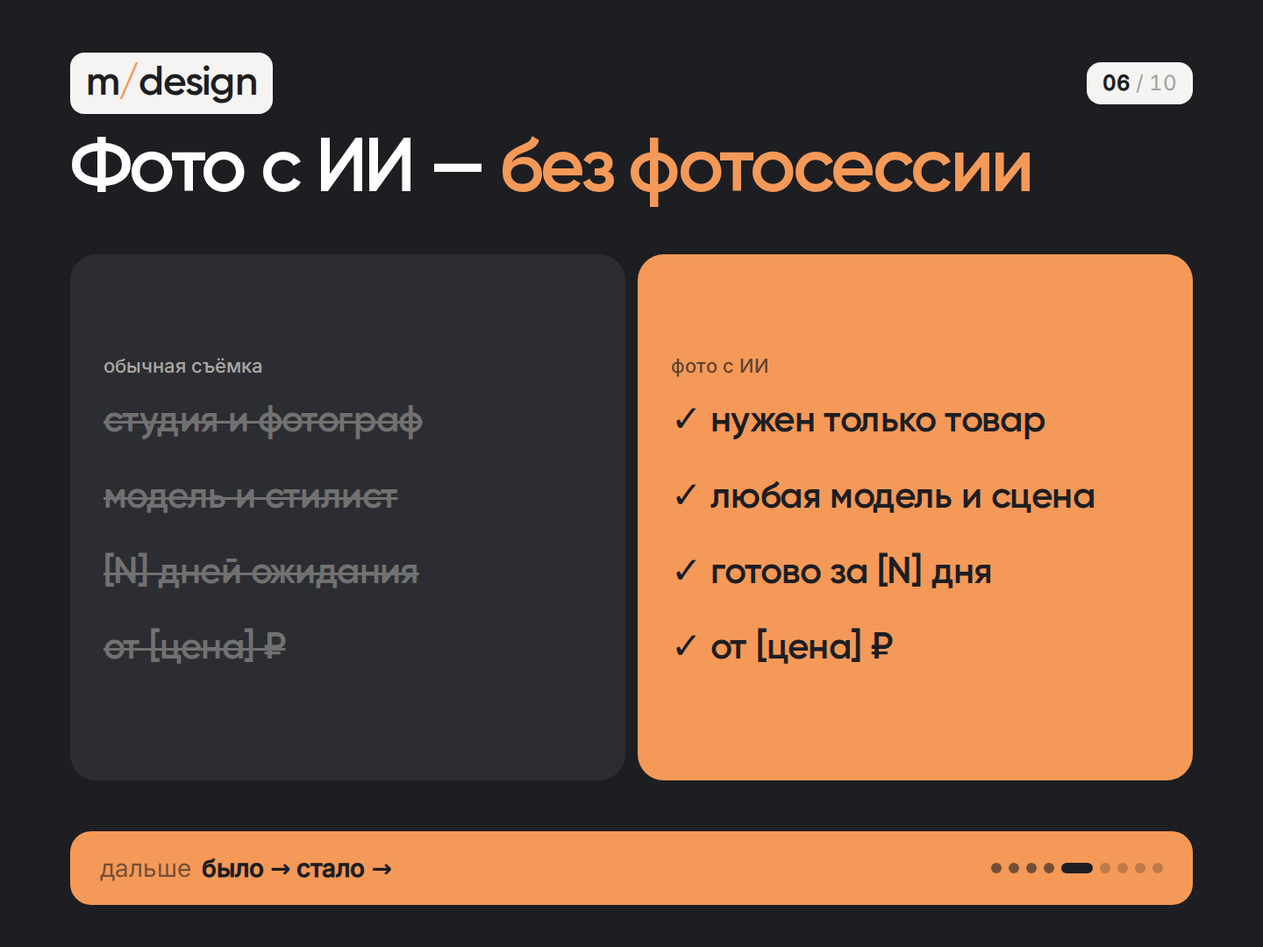
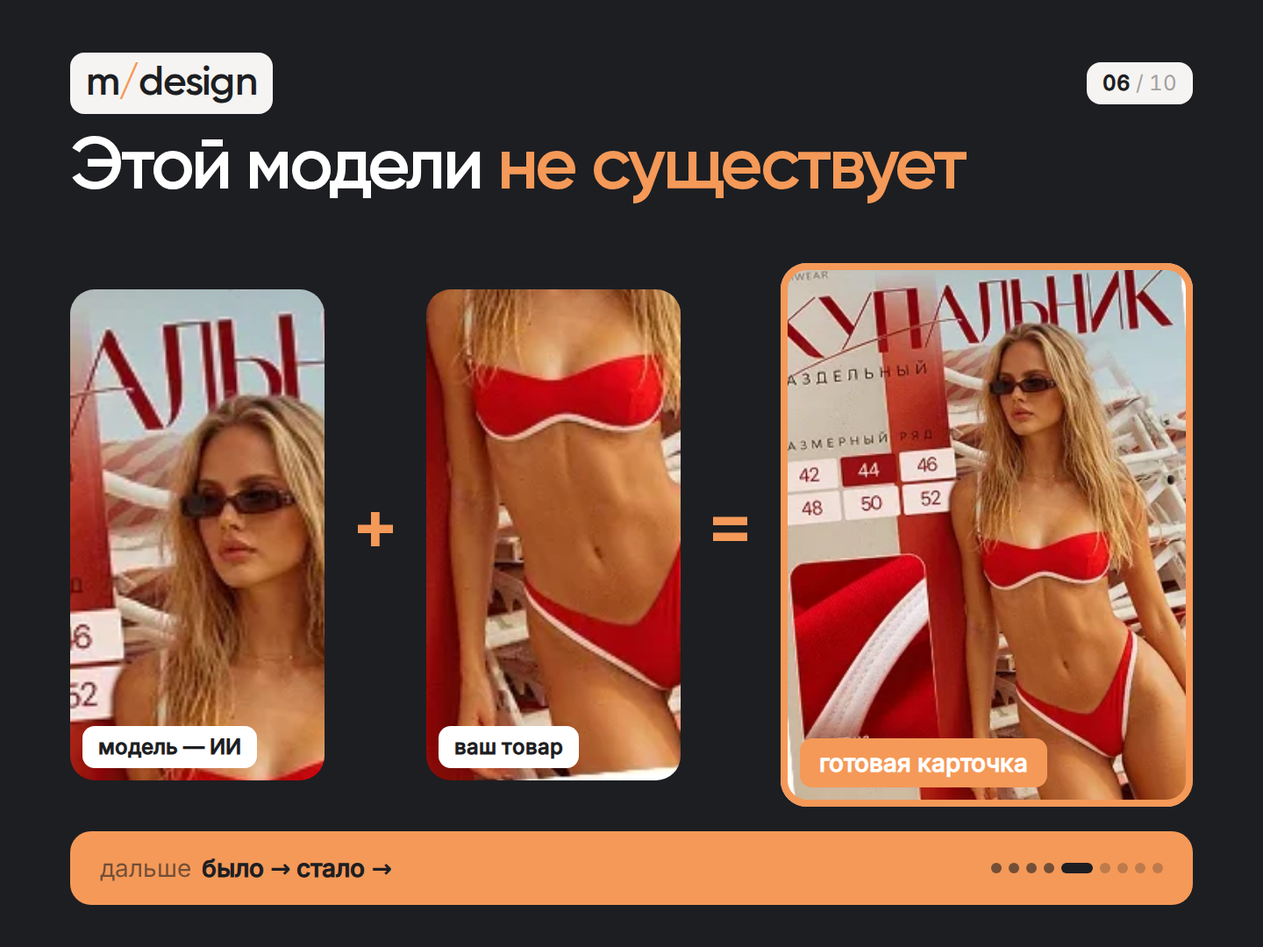
Воронка Авито: в воронку поставлены 2b, 3b и новый слайд 6 (модель + купальник = карточка)
Claude-Session: https://claude.ai/code/session_01Ea7sNnJutX3PZfqWbVPvng

diff --git a/docs/mockups/avito-funnel-9-color.html b/docs/mockups/avito-funnel-9-color.html
@@ -509,6 +509,94 @@ body { background: var(--bg); color: var(--text); font: 400 15px/25px var(--f-bo
 .k8 .s8 div { display: flex; align-items: center; gap: 22px; background: var(--white); border-radius: 24px; padding: 22px 26px; font: 600 32px/1.15 var(--f-head); letter-spacing: -.5px; color: var(--ink); }
 .k8 .s8 div:last-child { background: var(--ink); color: var(--white); }
 .k8 .s8 b { width: 64px; height: 64px; flex: none; border-radius: 18px; background: var(--accent); color: var(--white); display: grid; place-items: center; font: 600 34px/1 var(--f-head); }
+
+/* ---------- варианты 2, 3, 6 ---------- */
+.v .H { position: absolute; left: 80px; top: 150px; right: 80px; font-size: 84px; letter-spacing: -3.2px; }
+.v .sub { position: absolute; font: 500 28px/1.35 var(--f-body); color: var(--text); }
+.v.dk .sub { color: var(--dark-text); }
+.v.or .sub { color: var(--ink); }
+.v .lbl { position: absolute; z-index: 3; border-radius: 14px; padding: 12px 18px; font: 600 24px/1 var(--f-body); background: var(--ink); color: var(--white); }
+.v .lbl.o { background: var(--accent); }
+.v .lbl.w { background: var(--white); color: var(--ink); }
+
+/* 2a · стена со свободным местом */
+.v2a .g { position: absolute; left: 80px; right: 80px; top: 350px; display: grid; grid-template-columns: repeat(6, 1fr); gap: 12px; }
+.v2a .slot { border-radius: 22px; background: var(--white); border: 4px dashed var(--accent); display: flex; flex-direction: column; align-items: center; justify-content: center; gap: 10px; color: var(--accent); }
+.v2a .slot b { font: 600 90px/1 var(--f-head); }
+.v2a .slot span { font: 600 26px/1.1 var(--f-head); text-align: center; color: var(--ink); }
+
+/* 2b · что входит */
+.v2b .H { right: auto; width: 760px; font-size: 76px; }
+.v2b .big { position: absolute; right: 80px; top: 140px; }
+.v2b .big .t { border-radius: 30px; }
+.v2b .rows { position: absolute; left: 80px; top: 340px; width: 720px; display: flex; flex-direction: column; gap: 12px; }
+.v2b .rows > div { display: flex; align-items: center; gap: 22px; border-radius: 24px; padding: 22px 26px; background: var(--white); }
+.v2b .rows b { font: 600 46px/1 var(--f-head); color: var(--accent); width: 70px; flex: none; }
+.v2b .rows h5 { font: 600 34px/1.1 var(--f-head); letter-spacing: -.6px; color: var(--ink); }
+.v2b .rows span { display: block; margin-top: 6px; font: 500 21px/1.3 var(--f-body); color: var(--text); }
+.v2b .rows > div:last-child { background: var(--ink); }
+.v2b .rows > div:last-child h5 { color: var(--white); } .v2b .rows > div:last-child span { color: var(--dark-text); }
+
+/* 2c · разбор карточки по точкам */
+.v2c .H { right: auto; width: 680px; }
+.v2c .big { position: absolute; right: 120px; top: 120px; }
+.v2c .big .t { border-radius: 30px; }
+.v2c .pt { position: absolute; z-index: 3; width: 72px; height: 72px; border-radius: 50%; background: var(--accent); color: var(--white); display: grid; place-items: center; font: 600 36px/1 var(--f-head); }
+.v2c .leg { position: absolute; left: 80px; top: 420px; width: 620px; display: flex; flex-direction: column; gap: 14px; }
+.v2c .leg div { display: flex; align-items: center; gap: 20px; font: 600 34px/1.15 var(--f-head); letter-spacing: -.5px; color: var(--ink); }
+.v2c .leg i { width: 60px; height: 60px; flex: none; border-radius: 50%; background: var(--accent); color: var(--white); display: grid; place-items: center; font: 600 30px/1 var(--f-head); font-style: normal; }
+
+/* 3a · ниши на работах */
+.v3a .g { position: absolute; left: 80px; right: 80px; top: 290px; display: grid; grid-template-columns: repeat(5, 1fr); gap: 12px; }
+.v3a .g > div { position: relative; }
+.v3a .g .lbl { left: 12px; bottom: 12px; }
+
+/* 3b · что продаёте */
+.v3b .H { font-size: 150px; letter-spacing: -6px; top: 140px; }
+.v3b .pills { position: absolute; left: 80px; right: 80px; top: 340px; display: flex; flex-wrap: wrap; gap: 12px; }
+.v3b .pills span { background: var(--white); color: var(--ink); border-radius: 999px; padding: 18px 30px; font: 600 38px/1 var(--f-head); letter-spacing: -.6px; }
+.v3b .pills span:nth-child(3n+2) { background: var(--ink); color: var(--white); }
+.v3b .sub { left: 80px; top: 640px; width: 900px; font-size: 32px; font-weight: 600; }
+.v3b .strip { position: absolute; left: 80px; right: 80px; top: 730px; display: grid; grid-template-columns: repeat(8, 1fr); gap: 10px; }
+
+/* 3c · свой стиль */
+.v3c .g { position: absolute; left: 80px; right: 80px; top: 290px; display: grid; grid-template-columns: repeat(5, 1fr); gap: 12px; }
+.v3c .g > div { position: relative; }
+.v3c .g .lbl { left: 12px; top: 12px; }
+.v3c .sub { left: 80px; top: 870px; }
+
+/* 6a · модель, интерьер, сцена */
+.v6a .H { font-size: 78px; }
+.v6a .g { position: absolute; left: 80px; right: 80px; top: 290px; display: grid; grid-template-columns: repeat(3, 1fr); gap: 14px; }
+.v6a .g > div { position: relative; }
+.v6a .g .t { border-radius: 28px; }
+.v6a .g .lbl { left: 18px; bottom: 18px; font-size: 30px; padding: 14px 22px; }
+
+/* 6b · формула */
+.v6b .eq { position: absolute; left: 80px; right: 80px; top: 300px; display: flex; align-items: center; justify-content: space-between; }
+.v6b .ph { width: 340px; height: 580px; border-radius: 30px; background: var(--bg-3); display: flex; flex-direction: column; align-items: center; justify-content: center; gap: 14px; text-align: center; font: 600 34px/1.15 var(--f-head); color: var(--text-2); }
+.v6b .ph i { font-style: normal; font: 400 22px/1.3 var(--f-body); color: var(--text-3); }
+.v6b .op { font: 600 110px/1 var(--f-head); color: var(--accent); }
+.v6b .ai { width: 200px; height: 200px; border-radius: 50%; background: var(--accent); color: var(--white); display: grid; place-items: center; font: 600 72px/1 var(--f-head); letter-spacing: -2px; }
+.v6b .res { position: relative; }
+.v6b .res .t { border-radius: 30px; outline: 8px solid var(--accent); outline-offset: -8px; }
+
+/* 6c · модели не существует */
+.v6c .H { right: auto; width: 640px; top: 230px; font-size: 96px; }
+.v6c .sub { left: 80px; top: 560px; width: 560px; font-size: 30px; }
+.v6c .big { position: absolute; right: 80px; top: 60px; }
+.v6c .big .t { border-radius: 0 0 36px 36px; }
+.v6c .hdr .cnt { position: relative; }
+
+/* 6c v2 · модель + купальник = карточка */
+.v6d .H { font-size: 84px; }
+.v6d .eq { position: absolute; left: 80px; right: 80px; top: 300px; display: flex; align-items: center; justify-content: space-between; }
+.v6d .bx { position: relative; }
+.v6d .bx .t { border-radius: 28px; }
+.v6d .bx .lbl { left: 14px; bottom: 14px; }
+.v6d .op { font: 600 90px/1 var(--f-head); color: var(--accent); }
+.v6d .res .t { border-radius: 30px; outline: 8px solid var(--accent); outline-offset: -8px; }
+.v6d .res .lbl { left: 22px; bottom: 22px; font-size: 28px; padding: 14px 22px; }
 .sub2 { font: 400 28px/1.4 var(--f-body); color: var(--text); margin-top: 22px; }
 .sub2 b { color: var(--ink); font-weight: 500; }
 
@@ -518,13 +606,11 @@ body.export .grid { display: block; }
 body.export .frame { width: 1440px; height: 1080px; aspect-ratio: auto; border-radius: 0; }
 body.export .frame .ad { transform: none !important; }
 </style>
-<template id="n2"><div class="ad k k2"><div class="wall"></div><div class="pn"><div class="H">Сделаю карточку<br><span class="ln"></span>для WB и Ozon</div><div class="c3"><div class="x1"><div class="t" style="width:362px;height:250px;background-size:1280px auto;background-position:-827px -95px;"></div><b>Инфографика</b><span>главный слайд и слайды с выгодами товара</span></div><div class="x2"><div class="t" style="width:362px;height:250px;background-size:1280px auto;background-position:-59px 13px;"></div><b>Фото с ИИ</b><span>модель, интерьер, сцена — без студии</span></div><div class="x3"><div class="t" style="width:362px;height:250px;background-size:1280px auto;background-position:125px -179px;"></div><b>Живая обложка</b><span>главный слайд в движении — в подарок</span></div></div></div><div class="hdr"><div class="logo">m<b>/</b>design</div><span class="cnt">02 <span>/ 10</span></span></div><div class="nxt"><span><i>дальше</i>для каких товаров →</span><div class="dots"><i class="on"></i><i class=""></i><i class=""></i><i class=""></i><i class=""></i><i class=""></i><i class=""></i><i class=""></i><i class=""></i></div></div></div></template>
-<template id="n3"><div class="ad k k3"><div class="H">Работаю с <em>любыми товарами</em></div><div class="g6"><div class="c"><div class="t" style="width:196px;height:540px;background-size:2080px auto;background-position:-1540px -88px;"></div><b>Одежда</b></div><div class="c"><div class="t" style="width:196px;height:540px;background-size:2080px auto;background-position:-1111px 127px;"></div><b>Обувь</b></div><div class="c"><div class="t" style="width:196px;height:540px;background-size:2080px auto;background-position:-1878px -237px;"></div><b>Для дома</b></div><div class="c"><div class="t" style="width:196px;height:540px;background-size:2080px auto;background-position:-1137px -178px;"></div><b>Техника</b></div><div class="c"><div class="t" style="width:196px;height:540px;background-size:2080px auto;background-position:7px -224px;"></div><b>Игрушки</b></div><div class="c"><div class="t" style="width:196px;height:540px;background-size:2080px auto;background-position:-6px -757px;"></div><b>Подарки</b></div></div><div class="hdr"><div class="logo">m<b>/</b>design</div><span class="cnt">03 <span>/ 10</span></span></div><div class="nxt"><span><i>дальше</i>как проходит работа →</span><div class="dots"><i class="done"></i><i class="on"></i><i class=""></i><i class=""></i><i class=""></i><i class=""></i><i class=""></i><i class=""></i><i class=""></i></div></div></div></template>
+<template id="n2"><div class="ad k v v2b"><div class="H">Что вы получите <em>в одном заказе</em></div><div class="rows"><div><b>01</b><div><h5>Главный слайд</h5><span>то, что видят в выдаче</span></div></div><div><b>02</b><div><h5>Слайды с выгодами</h5><span>размеры, состав, преимущества</span></div></div><div><b>03</b><div><h5>Фото с ИИ</h5><span>модель, интерьер, сцена</span></div></div><div><b>04</b><div><h5>Живая обложка</h5><span>главный слайд в движении — в подарок</span></div></div></div><div class="big"><div class="t" style="width:480px;height:790px;background-size:3040px auto;background-position:-2154px -128px;"></div></div><span style="right:110px;top:880px" class="lbl o">главный слайд</span><div class="hdr"><div class="logo">m<b>/</b>design</div><span class="cnt">02 <span>/ 10</span></span></div><div class="nxt"><span><i>дальше</i>для каких товаров →</span><div class="dots"><i class="on"></i><i class=""></i><i class=""></i><i class=""></i><i class=""></i><i class=""></i><i class=""></i><i class=""></i><i class=""></i></div></div></div></template>
+<template id="n3"><div class="ad k v v3b or"><div class="H">Что продаёте?</div><div class="pills"><span>Одежда</span><span>Обувь</span><span>Матрасы</span><span>Мебель</span><span>Техника</span><span>Электрика</span><span>Свет</span><span>Красота</span><span>Конструкторы</span><span>Подарки</span></div><p class="sub">Карточки для всех этих ниш — уже в портфолио</p><div class="strip"><div class="t" style="width:150px;height:190px;background-size:1200px auto;background-position:-870px -111px;"></div><div class="t" style="width:150px;height:190px;background-size:1200px auto;background-position:-622px 12px;"></div><div class="t" style="width:150px;height:190px;background-size:1200px auto;background-position:-150px -10px;"></div><div class="t" style="width:150px;height:190px;background-size:1200px auto;background-position:-1065px 35px;"></div><div class="t" style="width:150px;height:190px;background-size:1200px auto;background-position:-638px -164px;"></div><div class="t" style="width:150px;height:190px;background-size:1200px auto;background-position:-1065px -198px;"></div><div class="t" style="width:150px;height:190px;background-size:1200px auto;background-position:22px -190px;"></div><div class="t" style="width:150px;height:190px;background-size:1200px auto;background-position:15px -498px;"></div></div><div class="hdr"><div class="logo">m<b>/</b>design</div><span class="cnt">03 <span>/ 10</span></span></div><div class="nxt"><span><i>дальше</i>как проходит работа →</span><div class="dots"><i class="done"></i><i class="on"></i><i class=""></i><i class=""></i><i class=""></i><i class=""></i><i class=""></i><i class=""></i><i class=""></i></div></div></div></template>
 <template id="n4"><div class="ad k k4 or"><div class="H">От фото до карточки — <em>4 шага</em></div><div class="s4"><div><b>1</b><div><h5>Пришлите фото товара</h5><span>можно с телефона</span></div></div><div><b>2</b><div><h5>Покажу главный слайд</h5><span>согласуем стиль</span></div></div><div><b>3</b><div><h5>Сделаю все слайды</h5><span>и фото с ИИ</span></div></div><div><b>4</b><div><h5>Правки 7 дней</h5><span>бесплатно</span></div></div></div><div class="hdr"><div class="logo">m<b>/</b>design</div><span class="cnt">04 <span>/ 10</span></span></div><div class="nxt"><span><i>дальше</i>почему фото решает →</span><div class="dots"><i class="done"></i><i class="done"></i><i class="on"></i><i class=""></i><i class=""></i><i class=""></i><i class=""></i><i class=""></i><i class=""></i></div></div></div></template>
 <template id="n5"><div class="ad k k5"><div class="H">Фото как у всех = <em>выбор по цене</em></div><div class="gg"><div class="t" style="width:168px;height:250px;background-size:1088px auto;background-position:-120px 30px;"></div><div class="t" style="width:168px;height:250px;background-size:1088px auto;background-position:-548px 50px;"></div><div class="t" style="width:168px;height:250px;background-size:1088px auto;background-position:-562px -110px;"></div><div class="t" style="width:168px;height:250px;background-size:1088px auto;background-position:-950px 71px;"></div><div class="t" style="width:168px;height:250px;background-size:1088px auto;background-position:-800px -344px;"></div><div class="t" style="width:168px;height:250px;background-size:1088px auto;background-position:-338px -79px;"></div><div class="t" style="width:168px;height:250px;background-size:1088px auto;background-position:-963px -419px;"></div><div class="t" style="width:168px;height:250px;background-size:1088px auto;background-position:36px -133px;"></div><div class="t" style="width:168px;height:250px;background-size:1088px auto;background-position:-820px -596px;"></div><div class="t on" style="width:168px;height:250px;background-size:1088px auto;background-position:-773px -62px;"></div><div class="t" style="width:168px;height:250px;background-size:1088px auto;background-position:-120px 30px;"></div><div class="t" style="width:168px;height:250px;background-size:1088px auto;background-position:-562px -110px;"></div><div class="t" style="width:168px;height:250px;background-size:1088px auto;background-position:-548px 50px;"></div><div class="t" style="width:168px;height:250px;background-size:1088px auto;background-position:-800px -344px;"></div></div><span class="tag5" style="left:560px;top:850px">фото с ИИ — ваш товар заметят</span><div class="hdr"><div class="logo">m<b>/</b>design</div><span class="cnt">05 <span>/ 10</span></span></div><div class="nxt"><span><i>дальше</i>фото без студии →</span><div class="dots"><i class="done"></i><i class="done"></i><i class="done"></i><i class="on"></i><i class=""></i><i class=""></i><i class=""></i><i class=""></i><i class=""></i></div></div></div></template>
-<template id="n6"><div class="ad k k6 dk"><div class="H">Фото с ИИ — <em>без фотосессии</em></div>
-<div class="two"><div class="col a"><h4>обычная съёмка</h4><div>студия и фотограф</div><div>модель и стилист</div><div>[N] дней ожидания</div><div>от [цена] ₽</div></div>
-<div class="col b"><h4>фото с ИИ</h4><div>✓ нужен только товар</div><div>✓ любая модель и сцена</div><div>✓ готово за [N] дня</div><div>✓ от [цена] ₽</div></div></div><div class="hdr"><div class="logo">m<b>/</b>design</div><span class="cnt">06 <span>/ 10</span></span></div><div class="nxt"><span><i>дальше</i>было → стало →</span><div class="dots"><i class="done"></i><i class="done"></i><i class="done"></i><i class="done"></i><i class="on"></i><i class=""></i><i class=""></i><i class=""></i><i class=""></i></div></div></div></template>
+<template id="n6"><div class="ad k v v6d dk"><div class="H">Этой модели <em>не существует</em></div><div class="eq"><div class="bx"><div class="t" style="width:290px;height:560px;background-size:4800px auto;background-position:-3659px -290px;"></div><span class="lbl w">модель — ИИ</span></div><span class="op">+</span><div class="bx"><div class="t" style="width:290px;height:560px;background-size:4160px auto;background-position:-3214px -635px;"></div><span class="lbl w">ваш товар</span></div><span class="op">=</span><div class="bx res"><div class="t" style="width:470px;height:620px;background-size:2800px auto;background-position:-1970px -171px;"></div><span class="lbl o">готовая карточка</span></div></div><div class="hdr"><div class="logo">m<b>/</b>design</div><span class="cnt">06 <span>/ 10</span></span></div><div class="nxt"><span><i>дальше</i>было → стало →</span><div class="dots"><i class="done"></i><i class="done"></i><i class="done"></i><i class="done"></i><i class="on"></i><i class=""></i><i class=""></i><i class=""></i><i class=""></i></div></div></div></template>
 <template id="n7"><div class="ad k k7"><div class="H">Тот же товар. <em>Другая карточка.</em></div><div class="bf">ваше фото «до»</div><span class="bfl">было</span><div class="arr"></div><div class="af"><div class="t" style="width:600px;height:640px;background-size:2720px auto;background-position:-1842px -148px;"></div></div><span class="st">стало</span><div class="hdr"><div class="logo">m<b>/</b>design</div><span class="cnt">07 <span>/ 10</span></span></div><div class="nxt"><span><i>дальше</i>документы для товара →</span><div class="dots"><i class="done"></i><i class="done"></i><i class="done"></i><i class="done"></i><i class="done"></i><i class="on"></i><i class=""></i><i class=""></i><i class=""></i></div></div></div></template>
 <template id="n8"><div class="ad k k8"><div class="H">Нужен сертификат?<br><em>Скидка 10%</em></div>
 <div class="s8"><div><b>1</b>Заказываете у меня карточку</div><div><b>2</b>Даю контакт партнёра по сертификации</div><div><b>3</b>Оформляете документы на 10% дешевле</div></div>
@@ -535,7 +621,7 @@ body.export .frame .ad { transform: none !important; }
 <template id="n10"><div class="ad k k10"><div class="wall"></div><div class="pn"><div class="H">Пришлите фото —<br><span class="ln"></span>разберу бесплатно</div>
 <p class="sb">Скажу, что мешает продавать. Срок акции ограничен.</p>
[1 lines of base64/hex data omitted]
-<div class="wrap"><header class="head"><h1>Воронка · цветная версия</h1><p>Меньше текста, больше цвета: работы на каждом слайде, чередование светлых, тёмных и оранжевых слайдов, короткие заголовки.</p></header><div class="feed"><div class="it"><div class="ph" data-c="n2"></div>2 · Что я делаю</div><div class="it"><div class="ph" data-c="n3"></div>3 · Любые товары</div><div class="it"><div class="ph" data-c="n4"></div>4 · 4 шага (оранжевый)</div><div class="it"><div class="ph" data-c="n5"></div>5 · Фото как у всех</div><div class="it"><div class="ph" data-c="n6"></div>6 · ИИ вместо съёмки (тёмный)</div><div class="it"><div class="ph" data-c="n7"></div>7 · Было → стало</div><div class="it"><div class="ph" data-c="n8"></div>8 · Сертификат −10%</div><div class="it"><div class="ph" data-c="n9"></div>9 · Четыре выгоды</div><div class="it"><div class="ph" data-c="n10"></div>10 · Бесплатный разбор</div></div><div class="grid"><figure class="item"><div class="frame" data-c="n2"></div><figcaption class="cap">2 · Что я делаю <span>фото 2</span></figcaption></figure><figure class="item"><div class="frame" data-c="n3"></div><figcaption class="cap">3 · Любые товары <span>фото 3</span></figcaption></figure><figure class="item"><div class="frame" data-c="n4"></div><figcaption class="cap">4 · 4 шага (оранжевый) <span>фото 4</span></figcaption></figure><figure class="item"><div class="frame" data-c="n5"></div><figcaption class="cap">5 · Фото как у всех <span>фото 5</span></figcaption></figure><figure class="item"><div class="frame" data-c="n6"></div><figcaption class="cap">6 · ИИ вместо съёмки (тёмный) <span>фото 6</span></figcaption></figure><figure class="item"><div class="frame" data-c="n7"></div><figcaption class="cap">7 · Было → стало <span>фото 7</span></figcaption></figure><figure class="item"><div class="frame" data-c="n8"></div><figcaption class="cap">8 · Сертификат −10% <span>фото 8</span></figcaption></figure><figure class="item"><div class="frame" data-c="n9"></div><figcaption class="cap">9 · Четыре выгоды <span>фото 9</span></figcaption></figure><figure class="item"><div class="frame" data-c="n10"></div><figcaption class="cap">10 · Бесплатный разбор <span>фото 10</span></figcaption></figure></div></div><script>
+<div class="wrap"><header class="head"><h1>Воронка · цветная версия</h1><p>Общие слайды 2–10 для всех объявлений.</p></header><div class="feed"><div class="it"><div class="ph" data-c="n2"></div>2 · Что вы получите</div><div class="it"><div class="ph" data-c="n3"></div>3 · Что продаёте? (оранжевый)</div><div class="it"><div class="ph" data-c="n4"></div>4 · 4 шага (оранжевый)</div><div class="it"><div class="ph" data-c="n5"></div>5 · Фото как у всех</div><div class="it"><div class="ph" data-c="n6"></div>6 · Модели не существует (тёмный)</div><div class="it"><div class="ph" data-c="n7"></div>7 · Было → стало</div><div class="it"><div class="ph" data-c="n8"></div>8 · Сертификат −10%</div><div class="it"><div class="ph" data-c="n9"></div>9 · Четыре выгоды</div><div class="it"><div class="ph" data-c="n10"></div>10 · Бесплатный разбор</div></div><div class="grid"><figure class="item"><div class="frame" data-c="n2"></div><figcaption class="cap">2 · Что вы получите <span>фото 2</span></figcaption></figure><figure class="item"><div class="frame" data-c="n3"></div><figcaption class="cap">3 · Что продаёте? (оранжевый) <span>фото 3</span></figcaption></figure><figure class="item"><div class="frame" data-c="n4"></div><figcaption class="cap">4 · 4 шага (оранжевый) <span>фото 4</span></figcaption></figure><figure class="item"><div class="frame" data-c="n5"></div><figcaption class="cap">5 · Фото как у всех <span>фото 5</span></figcaption></figure><figure class="item"><div class="frame" data-c="n6"></div><figcaption class="cap">6 · Модели не существует (тёмный) <span>фото 6</span></figcaption></figure><figure class="item"><div class="frame" data-c="n7"></div><figcaption class="cap">7 · Было → стало <span>фото 7</span></figcaption></figure><figure class="item"><div class="frame" data-c="n8"></div><figcaption class="cap">8 · Сертификат −10% <span>фото 8</span></figcaption></figure><figure class="item"><div class="frame" data-c="n9"></div><figcaption class="cap">9 · Четыре выгоды <span>фото 9</span></figcaption></figure><figure class="item"><div class="frame" data-c="n10"></div><figcaption class="cap">10 · Бесплатный разбор <span>фото 10</span></figcaption></figure></div></div><script>
 (() => {
   document.querySelectorAll('[data-c]').forEach(el => el.appendChild(document.getElementById(el.dataset.c).content.cloneNode(true)));
   if (location.hash === '#export') { document.body.classList.add('export'); return; }
